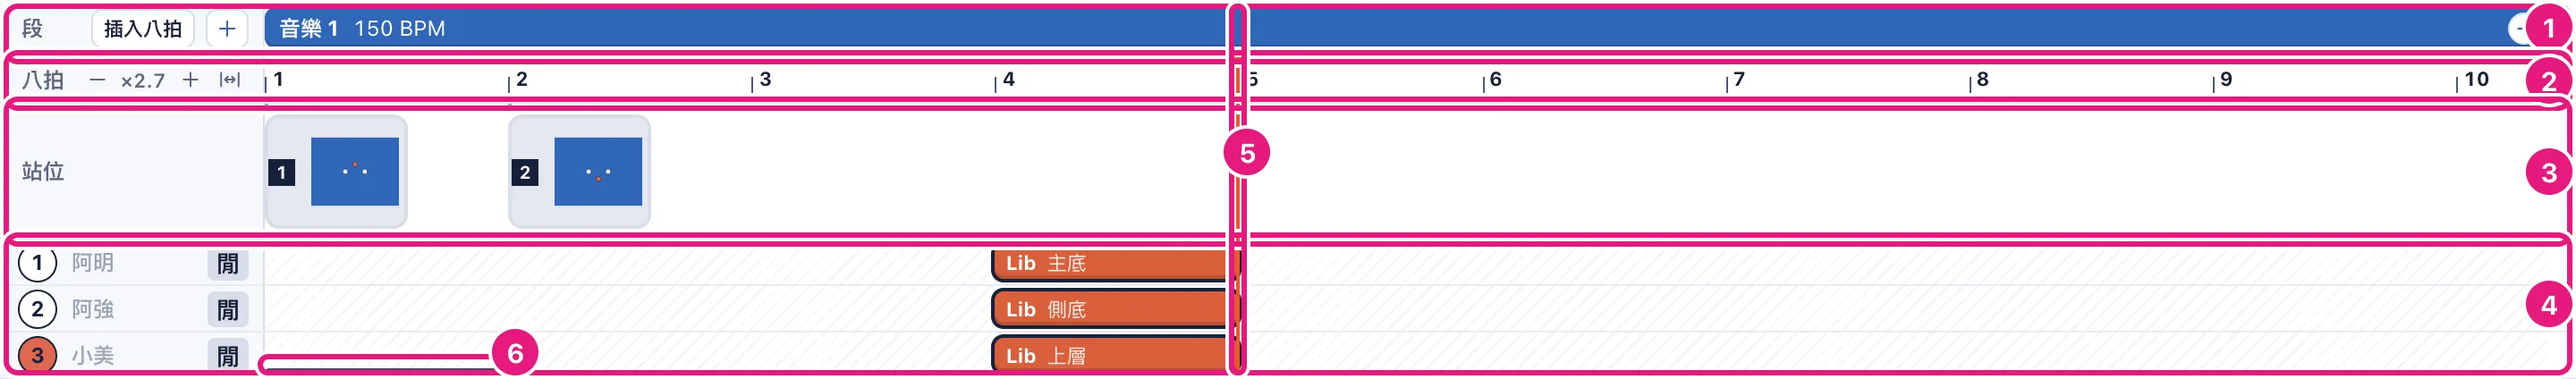
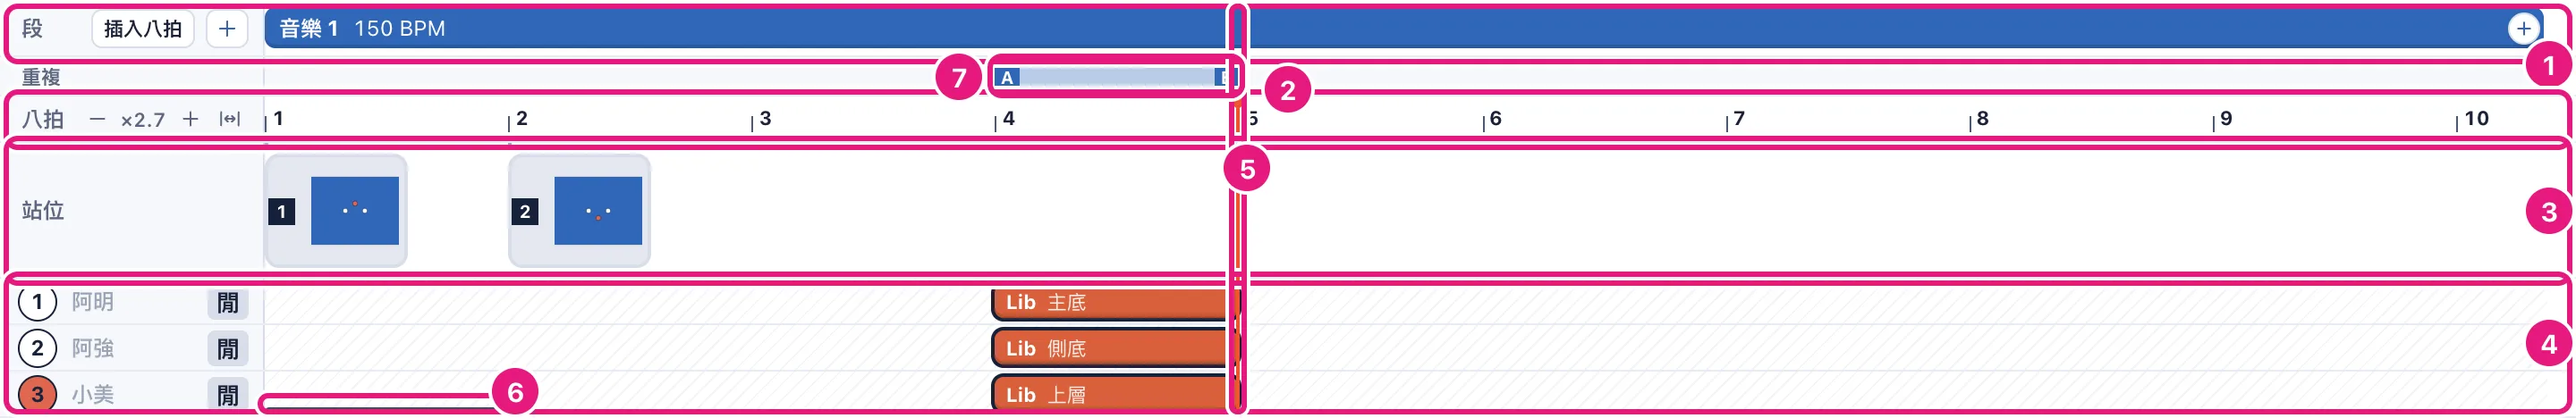
重複範圍那一條加高到 22px（手指 28px），站位列、捲動停的位置跟著往下；矮螢幕上 A、B、✕ 靠緊一點，橫拿的 iPad 上「八拍表」只留圖示，上方列才放得下；使用說明寫起播點、Shift＋空白鍵、「⋯」的開關、重複範圍三種拉法和規則，名詞表的起播點寫清楚；重拍編輯畫面、時間軸截圖（時間軸多框 ⑦ 重複範圍）

diff --git a/src/routes/guide/+page.svelte b/src/routes/guide/+page.svelte
@@ -331,7 +331,7 @@
 							<tr><td><b>首頁</b></td><td>還沒打開流程時看到的畫面：左邊是介紹，右邊是「新建流程」「開啟流程檔」和「最近的流程」（手機、直拿的 iPad 上沒有「新建流程」）。</td></tr>
 							<tr><td><b>編輯畫面</b></td><td>打開一支流程之後的畫面，分成下面四個區域。</td></tr>
 							<tr class="group"><td colspan="2">上方列</td></tr>
-							<tr><td><b>上方列</b></td><td>最上面深藍色的那一列：左邊是流程名字、「編排」「練習」切換和「使用說明」，中間是播放鍵、目前位置、節拍器、重複、播放速度、「⋯」（按了打開延遲校正的小窗），右邊是「編輯｜檢視」切換、「復原」「重做」「八拍表」「輸出影片」「流程設定」「開啟」「新建」「存檔」。<br />（練習時沒有播放鍵那一區和「編輯｜檢視」「復原」「重做」「輸出影片」「流程設定」；檢視模式時「復原」「重做」「流程設定」變灰、按不下去，位置不變；手機上沒有「編輯｜檢視」切換和「輸出影片」，播放鍵那一區在場地下面，「新建」換成「回首頁」）<br />流程名字太長時只顯示前面，後面寫「…」，滑鼠移過去看得到全名。視窗不夠寬時，「復原」「重做」「輸出影片」只剩圖示、「流程設定」只剩齒輪和「設定」兩個字，滑鼠移過去看得到名字。<br />再窄一點，播放鍵那一區換到第二行（「輸出影片」又有字）；1280 像素寬以下，「使用說明」也只剩「?」圖示。<br />畫面矮的時候（高 860 像素以下，例如 1024×768 的筆電、橫拿的 iPad），播放鍵那一區不換行，擠進上方列那一行，場地大一點：「節拍器」「重複」「輸出影片」「開啟」「新建」「流程設定」只剩圖示；再窄一點「編輯｜檢視」也是，最後「八拍表」才只剩圖示。滑鼠移過去看得到名字。<br />手機上上方列排成兩行：上面是流程名字、「編排」「練習」和「使用說明」，下面是其他按鈕。</td></tr>
+							<tr><td><b>上方列</b></td><td>最上面深藍色的那一列：左邊是流程名字、「編排」「練習」切換和「使用說明」，中間是播放鍵、目前位置、節拍器、重複和它旁邊的「A」「B」「✕」、播放速度、「⋯」（按了打開延遲校正、「停下來回到起播點」的小窗），右邊是「編輯｜檢視」切換、「復原」「重做」「八拍表」「輸出影片」「流程設定」「開啟」「新建」「存檔」。<br />（練習時沒有播放鍵那一區和「編輯｜檢視」「復原」「重做」「輸出影片」「流程設定」；檢視模式時「復原」「重做」「流程設定」變灰、按不下去，位置不變；手機上沒有「編輯｜檢視」切換和「輸出影片」，播放鍵那一區在場地下面，「新建」換成「回首頁」）<br />流程名字太長時只顯示前面，後面寫「…」，滑鼠移過去看得到全名。視窗不夠寬時，「復原」「重做」「輸出影片」只剩圖示、「流程設定」只剩齒輪和「設定」兩個字，滑鼠移過去看得到名字。<br />再窄一點，播放鍵那一區換到第二行（「輸出影片」又有字）；1280 像素寬以下，「使用說明」也只剩「?」圖示。<br />畫面矮的時候（高 860 像素以下，例如 1024×768 的筆電、橫拿的 iPad），播放鍵那一區不換行，擠進上方列那一行，場地大一點：「節拍器」「重複」「輸出影片」「開啟」「新建」「流程設定」只剩圖示；再窄一點「編輯｜檢視」也是，最後「八拍表」才只剩圖示（橫拿的 iPad 上也是，讓出位置給「重複」旁邊的「A」「B」「✕」）。滑鼠移過去看得到名字。<br />手機上上方列排成兩行：上面是流程名字、「編排」「練習」和「使用說明」，下面是其他按鈕。</td></tr>
 							<tr><td><b>編排、練習</b></td><td>上方列流程名字旁的切換。平常在「編排」；按「練習」，場地、右邊欄、時間軸換成<b>練習畫面</b>，有「記錄」「總表」兩頁（見 <a href="#practice">4.10</a>）。</td></tr>
 							<tr><td><b>編輯、檢視模式</b></td><td>上方列右邊的「編輯｜檢視」兩格，現在的那格是白的，預設是「編輯」。按「檢視」就是<b>檢視模式</b>：上方列變成紫色，場地外框一圈黃色，右上角寫「檢視模式・只能看」。<br />檢視模式是<b>看的版面</b>：場地左邊那一欄（放大縮小、站位名稱、圖例）藏起來，時間軸矮一點，場地變大；右邊欄換成只能看的一塊：上面是「我」（選自己，場上標亮自己，下面只看自己的），再來是<b>前後八拍</b>：前三個、播放頭這個、後三個八拍，一個八拍一列。播放頭這個八拍一直在中間、框起來寫完整（做到一半的動作也寫人和任務角色），拍點那一排裡播放頭在的那一拍會亮（口號段整列亮）；前後的八拍各寫一行，點一下播放頭跳到那個八拍的第 1 拍。最下面是點到的動作的人、任務角色、拍點、備註。<br />場地照樣可以按住 {others(KEYS.zoom)}（Mac 按 {KEYS.zoom.mac}）滾滾輪，或在觸控板上兩指捏合放大縮小。只能改流程的按鈕都藏起來：時間軸的「插入八拍」、加段的「＋」、站位縮圖的「✕」、動作色條拉長度的把手、分組浮動列。點時間軸上的段名，段設定照樣打開，但欄位、按鈕都是灰的，只能看；「▶ 從第一拍聽 2 個八拍」移到標題旁邊，照樣能試聽。拖人、按 Delete、{KEYS.undo.mac} 會被擋下，提示寫「檢視模式只能看、只能播放」，流程和草稿都不會變。選人、選動作、播放、看八拍表、切站位照常。<br />給隊員看之前可以先切過去確認；要改再按回「編輯」，左邊那一欄、右邊欄的分頁和表單都回到原來的位置。手機、直拿的 iPad 上一律是檢視模式，沒有「編輯｜檢視」切換（見 <a href="#viewers">4.12</a>）。</td></tr>
 							<tr><td><b>未存</b></td><td>流程名字旁邊的黃色小字：有還沒存的修改（欄位裡打到一半、還沒離開的字也算，一打字就出現；手機跳時間的框不算）。存檔後消失。它的位置一直留著，出現時旁邊的「編排」「練習」不會移動。</td></tr>
@@ -355,11 +355,12 @@
 							<tr><td><b>拍點格子</b></td><td>改一個音樂段的動作時，動作表單最下面的「拍點」那一區：一排一個八拍；每排最上面是<b>數字格</b>，一格一拍；下面是環節列（一直都在，用來標環節，見 <a href="#practice">4.10</a>）、拍子列、步驟列、手位列。用來選拍、放拍點（見 <a href="#cues">4.7</a>）。</td></tr>
 							<tr><td><b>拍點小窗</b></td><td>在拍點格子選好拍，就在選的拍下面（下面放不下就在上面）跳出來的小框，裡面有「給誰」、「－」「＋」、「複製」「貼上」和放拍子、步驟、手位的按鈕（見 <a href="#cues">4.7</a>）。</td></tr>
 							<tr class="group"><td colspan="2">時間軸</td></tr>
-							<tr><td><b>時間軸</b></td><td>畫面最下面，左右是時間，由上往下四列：段列、八拍尺、站位列、泳道。</td></tr>
+							<tr><td><b>時間軸</b></td><td>畫面最下面，左右是時間，由上往下五列：段列、重複範圍那一條、八拍尺、站位列、泳道。</td></tr>
 							<tr><td><b>段列</b></td><td>時間軸第一列，每一段是一個長方形。左邊的「＋」在最後加段；每一段右邊邊緣上的小「＋」在那一段後面插段。「段」旁的「插入八拍」在播放頭空出時間（見 <a href="#segments">4.3</a>）。</td></tr>
-							<tr><td><b>八拍尺</b></td><td>時間軸第二列，像尺一樣標著八拍的號碼（口號段每 5 秒標一次，寫「0 秒」「5 秒」）。號碼太密時跳著標。左邊的「−」「＋」放大、縮小時間軸，旁邊的「符合寬度」讓整支流程剛好放滿時間軸。</td></tr>
-							<tr><td><b>站位列</b></td><td>時間軸第三列，每張站位一個<b>小圖</b>，放在它的站位時間上；左邊那一窄條是站位的號碼（在圖外，不蓋到角落的人），有站位名稱就寫在小圖上。在空白處雙擊，就在那一拍插一張站位。</td></tr>
-							<tr><td><b>泳道</b></td><td>時間軸第四列，每個隊員有自己的一條泳道。他參加的動作畫成一條<b>色條</b>（一個動作一條，點它就選到這個動作，雙擊它播放頭跳到動作開始）：顏色看大類；動作有挑<b>辨識色</b>時塗辨識色，左邊留一小條大類的顏色；每條色條都寫動作名稱（例如「Lib」，沒取名就寫大類），後面接那個人的任務角色（色條太短寫不下時，滑鼠移過去就看得到）。<br />沒在動作裡的時間是灰色斜紋；播放頭那一拍沒在動作裡的人，名字旁邊標「閒」。<br />泳道下緣的深色細條是<b>走位條</b>，從出發畫到到達；走太快的走位條是紅色，很喘的是橘色，撞位的那一段是紫色。動作有給這個人的<b>拍點</b>時，色條下半畫出拍點（見 <a href="#cues">4.7</a>）。</td></tr>
+							<tr><td><b>重複範圍那一條</b></td><td>段列下面、左邊寫「重複」的窄條。在上面拖出<b>重複範圍</b>（藍色的帶子，兩頭是「A」「B」）；「重複」關著時帶子變淡。播放中，<b>起播點</b>在這一條上畫一個橘紅色小三角（見 <a href="#重複">重複</a>）。</td></tr>
+							<tr><td><b>八拍尺</b></td><td>時間軸第三列，像尺一樣標著八拍的號碼（口號段每 5 秒標一次，寫「0 秒」「5 秒」）。號碼太密時跳著標。左邊的「−」「＋」放大、縮小時間軸，旁邊的「符合寬度」讓整支流程剛好放滿時間軸。</td></tr>
+							<tr><td><b>站位列</b></td><td>時間軸第四列，每張站位一個<b>小圖</b>，放在它的站位時間上；左邊那一窄條是站位的號碼（在圖外，不蓋到角落的人），有站位名稱就寫在小圖上。在空白處雙擊，就在那一拍插一張站位。</td></tr>
+							<tr><td><b>泳道</b></td><td>時間軸第五列，每個隊員有自己的一條泳道。他參加的動作畫成一條<b>色條</b>（一個動作一條，點它就選到這個動作，雙擊它播放頭跳到動作開始）：顏色看大類；動作有挑<b>辨識色</b>時塗辨識色，左邊留一小條大類的顏色；每條色條都寫動作名稱（例如「Lib」，沒取名就寫大類），後面接那個人的任務角色（色條太短寫不下時，滑鼠移過去就看得到）。<br />沒在動作裡的時間是灰色斜紋；播放頭那一拍沒在動作裡的人，名字旁邊標「閒」。<br />泳道下緣的深色細條是<b>走位條</b>，從出發畫到到達；走太快的走位條是紅色，很喘的是橘色，撞位的那一段是紫色。動作有給這個人的<b>拍點</b>時，色條下半畫出拍點（見 <a href="#cues">4.7</a>）。</td></tr>
 							<tr><td><b>播放頭</b></td><td>時間軸上那根橘紅色直線，表示「現在」。場地顯示的就是播放頭這一刻大家站在哪。按住這條線也能拖。</td></tr>
 							<tr class="group"><td colspan="2">跳出來的視窗</td></tr>
 							<tr><td><b>段設定</b></td><td>點段列上的段跳出來的視窗（標題寫段名，例如「音樂 1 設定」），設定那一段的音樂檔、BPM、第一拍、長度。音樂段的段設定裡有<b>波形</b>：音樂聲音大小的圖，鼓點的地方會突起來。</td></tr>
@@ -564,9 +565,9 @@
 				</p>
 				<figure class="diagram shot">
 					<a href={timelineShot} target="_blank" rel="noopener"
-						><img src={timelineShot} style:max-width="760px" alt="時間軸：1 段列、2 八拍尺、3 站位列、4 泳道、5 播放頭（橘紅色直線）、6 小美泳道下緣的走位條。" /></a
+						><img src={timelineShot} style:max-width="760px" alt="時間軸：1 段列、2 八拍尺、3 站位列、4 泳道、5 播放頭（橘紅色直線）、6 小美泳道下緣的走位條、7 重複範圍（4-1 到 5-1）。" /></a
 					>
-					<figcaption>圖 9　時間軸。① 段列　② 八拍尺　③ 站位列　④ 泳道　⑤ 播放頭　⑥ 走位條（小美從站位 1 的位置走位到站位 2 的位置）。</figcaption>
+					<figcaption>圖 9　時間軸。① 段列　② 八拍尺　③ 站位列　④ 泳道　⑤ 播放頭　⑥ 走位條（小美從站位 1 的位置走位到站位 2 的位置）　⑦ 重複範圍（在段列和八拍尺中間那一條，這裡拉的是 4-1 到 5-1）。</figcaption>
 				</figure>
 
 				<h4 id="移動播放頭">移動播放頭</h4>
@@ -576,18 +577,26 @@
 					<li>看上方列的目前位置，確認在你要的那一拍，例如「音樂 1 3-1」。差一點就再點一次。</li>
 				</ol>
 
-				<h4 id="播放、暫停">播放、暫停</h4>
+				<h4 id="播放、暫停">播放、停下</h4>
 				<ol class="steps">
-					<li>按上方列的圓形播放鍵。從播放頭開始播；已經播到最後就從頭播。</li>
-					<li>再按一次暫停。</li>
+					<li>按上方列的圓形播放鍵。從播放頭開始播；已經播到最後就從頭播。開始播的地方叫<b>起播點</b>，播放中在重複範圍那一條上畫一個橘紅色小三角。</li>
+					<li>再按一次停下。播放頭<b>回到起播點</b>，像剪輯軟體一樣：可以一直從同一個地方重聽。自己播到流程結尾也一樣回去。</li>
+					<li>想停在聽到的地方改站位：按 <b>Shift＋空白鍵</b>停下，播放頭留在原地。播放中直接拖場上的人也會停在最近的整拍，不會跳回去。</li>
 				</ol>
+				<p class="purpose">播放中點八拍尺跳到別的地方，起播點跟著過去（停下來回到你點的地方）。不想回去的話，按上方列的「⋯」，把「停下來回到起播點」關掉：停下來就留在原地，這時 Shift＋空白鍵反過來，是回到起播點。這個開關存在這台電腦，不進流程檔。</p>
 				<p class="note">也可以按空白鍵。剛點過任何按鈕（節拍器、重複、檢視、段、場上的人、色條……）後，空白鍵照樣是播放／暫停，不會再按一次那個按鈕。只有游標在輸入框、選單裡（例如剛打完名字）時，空白鍵是打字用的；這時先點一下場地或時間軸的空白處再按。段設定開著時，空白鍵也能暫停。還沒有段時播放鍵是灰的。</p>
 
 				<h4 id="節拍器">節拍器</h4>
 				<p class="purpose">播放時每一拍響一聲，每個八拍的「1」比較重。按上方列的「節拍器」開或關；開著時是亮藍色的。</p>
 
 				<h4 id="重複">重複</h4>
-				<p class="purpose">一直重複播同一小段，練到熟。按上方列的「重複」打開（開著時是亮藍底、深色字，關著是透明的）：<b>有選動作</b>（點過時間軸上的色條）就重複那個動作，播到動作結束跳回動作開始；<b>沒選動作</b>就重複播放頭所在的八拍（口號段是播放頭所在的 5 秒）。播放頭不在那個動作裡時，從動作開始播。重複的時候點八拍尺跳到別的八拍，就改成重複那一個。再按一次「重複」關掉。</p>
+				<p class="purpose">一直重複播同一小段（<b>重複範圍</b>，從 A 到 B），練到熟。可以跨段。先拉好範圍，「重複」就會自己打開（開著時是亮藍底、深色字，關著是透明的）。拉範圍有三種方法：</p>
+				<ol class="steps">
+					<li><b>拖出來：</b>在時間軸段列下面、寫著「重複」的那一條上，從 A 拖到 B。兩頭會吸到整拍（口號段 0.1 秒），至少一拍。拉好之後拖兩頭的「A」「B」改長短。</li>
+					<li><b>按 A、B：</b>上方列「重複」旁邊的「A」把開頭放在播放頭，「B」把結尾放在播放頭。播放中也能按：聽到要開始的地方按 A，聽到要結束的地方按 B。B 要在 A 後面；A 放到 B 後面時，B 會拿掉，再按一次 B。</li>
+					<li><b>選一個動作：</b>還沒有範圍時，點時間軸上的色條選動作，再按「重複」，範圍就拉成那個動作。之後換選別的動作，範圍不會跟著換。</li>
+				</ol>
+				<p class="purpose">重複開著時只在範圍裡播：從 A 播到 B 再跳回 A，一直播。播放頭在範圍外按播放，從 A 開始。播放中點到範圍外面，會跳回 A；停著時可以點出去看那一拍的站位，按播放還是從 A 播。要播別的地方，先關掉「重複」。<br />再按一次「重複」關掉：範圍還在（變成淡淡的虛線框），再打開就繼續用。「✕」把範圍拿掉，「重複」也一起關掉。還沒有範圍、也沒選動作時，「重複」是灰的、按不下去。<br />改 BPM、插入八拍時，範圍跟著音樂走，還是同樣那幾拍；範圍所在的段被刪掉、或開別的流程，範圍就拿掉。範圍不會存進流程檔。</p>
 
 				<h4 id="慢速播放">慢速播放</h4>
 				<p class="purpose">上方列「重複」旁邊的選單，選「0.75x」或「0.5x」放慢（「1x」是正常速度）。音樂變慢但音高不變，節拍器和播放頭也一起變慢。每首音樂第一次用慢速播時要先處理一下，按下播放後可能要等一下才出聲。速度不會存進流程檔。</p>
@@ -1237,7 +1246,8 @@
 					<table>
 						<thead><tr><th>按鍵</th><th>做什麼</th></tr></thead>
 						<tbody>
-							<tr><td><kbd>空白鍵</kbd></td><td>播放／暫停。焦點在輸入框、選單裡時照一般網頁打空格；在按鈕、勾選框、分頁上照樣是播放／暫停（<kbd>Enter</kbd> 才是按下它）；對話框裡的按鈕照一般網頁按下它（見 <a href="#playback">4.4</a>）</td></tr>
+							<tr><td><kbd>Shift</kbd>＋<kbd>空白鍵</kbd></td><td>停下，播放頭留在原地（不回起播點）；「⋯」裡關掉「停下來回到起播點」時反過來，是回到起播點（見 <a href="#播放、暫停">播放、停下</a>）。沒在播時跟空白鍵一樣</td></tr>
+							<tr><td><kbd>空白鍵</kbd></td><td>播放／停下（停下來回到起播點）。焦點在輸入框、選單裡時照一般網頁打空格；在按鈕、勾選框、分頁上照樣是播放／暫停（<kbd>Enter</kbd> 才是按下它）；對話框裡的按鈕照一般網頁按下它（見 <a href="#playback">4.4</a>）</td></tr>
 							<tr><td><kbd>←</kbd> <kbd>→</kbd>（<kbd>Shift</kbd>＋<kbd>←</kbd> <kbd>→</kbd>）</td><td>播放頭往前、往後一拍（一個八拍）；口號段 1 秒（5 秒）。游標在輸入框裡時不行</td></tr>
 							<tr><td><kbd>Home</kbd>／<kbd>End</kbd></td><td>播放頭跳到流程開頭／結尾（播放中按 End 就停在結尾）</td></tr>
 							<tr><td><kbd>Alt</kbd>（Mac：<kbd>Option</kbd>）＋點八拍尺</td><td>播放頭停在半拍 &amp; 上（只點是停在整拍）</td></tr>
@@ -1295,7 +1305,7 @@
 				<h4 id="用手機看">用手機看</h4>
 				<ol class="steps">
 					<li>手機上打開，直接是<b>檢視模式</b>的畫面：上面是場地，中間是播放鍵和目前位置，下面是<b>前後八拍</b>：播放頭這個八拍的動作、站位，這一拍那格會亮；再下面一行是下一個八拍，點一下跳過去。</li>
-					<li>按播放，場上的人跟著音樂走位，前後八拍也跟著換。按「重複」、選「0.75x」「0.5x」可以一直重複、放慢（見 <a href="#playback">4.4</a>）。</li>
+					<li>按播放，場上的人跟著音樂走位，前後八拍也跟著換。按「A」「B」拉好重複範圍可以一直重複那一段，選「0.75x」「0.5x」放慢（見 <a href="#playback">4.4</a>）。</li>
 					<li>要跳到某個地方：按「⏮」回開頭，按「‹ 八拍」「八拍 ›」往前、往後一個八拍。或點目前位置，打八拍寫法（例「3-1」是第 3 個八拍的第 1 拍，別的段前面加段名，例「口號 1 12.3」），按鍵盤上的「前往」（Enter）跳過去；打錯了下面會寫怎麼打。播放頭在口號段時，只有一個音樂段的話，打八拍寫法也會跳到那個音樂段。</li>
 					<li>在「我」選自己的名字：場上你的點圈起來、只畫你的走位線，前後八拍只寫你的動作、任務角色、組和走位。這台手機會照流程的名字記住，下次打開同一支流程就直接標好；「我」不會寫進流程檔。</li>
 					<li>要看整張表，按上方列的「八拍表」，在「印誰」選自己，只列你有參加的動作。</li>

diff --git a/src/routes/+page.svelte b/src/routes/+page.svelte
@@ -2257,8 +2257,9 @@
 			padding-inline: 7px;
 		}
 	}
-	/* 1024×768：八拍表最後才只留圖示（使用說明都叫它「八拍表」）；「編排｜練習」、速度、「⋯」左右收小。 */
-	@media (max-width: 1100px) and (max-height: 860px) {
+	/* 1024×768：八拍表最後才只留圖示（使用說明都叫它「八拍表」）；「編排｜練習」、速度、「⋯」左右收小。
+	   橫拿的 iPad（1180×820，手指）也是：重複旁邊的 A、B、✕ 要 32px 才點得到，八拍表的字放不下。 */
+	@media (max-width: 1100px) and (max-height: 860px), (max-width: 1180px) and (max-height: 860px) and (pointer: coarse) {
 		.tightest-hide {
 			position: absolute;
 			width: 1px;
@@ -2282,6 +2283,18 @@
 		/* 多了「輸出影片」的圖示：間距再收 2px，流程名字才露得出 3 個字 */
 		.topbar {
 			gap: 8px;
+		}
+	}
+	/* 螢幕矮、播放區併進上方列那一行時：重複旁邊的 A、B、✕ 靠緊一點；滑鼠才收窄，手指照樣至少 32px */
+	@media (max-width: 1670px) and (max-height: 860px) {
+		.repeat-group {
+			gap: 2px;
+		}
+	}
+	@media (max-width: 1670px) and (max-height: 860px) and (pointer: fine) {
+		.ab {
+			min-width: 22px;
+			padding-inline: 4px;
 		}
 	}
 	@media (max-width: 1280px) {

diff --git a/src/lib/components/Timeline.svelte b/src/lib/components/Timeline.svelte
@@ -520,8 +520,8 @@
 <style>
 	.timeline {
 		overflow: auto;
-		/* 捲到某一條泳道（scrollIntoView、Tab 到）時，扣掉固定在上面的段列、重複範圍那一條、八拍尺、站位列（32 + 16 + 26 + 76），不停在它們底下 */
-		scroll-padding-top: 150px;
+		/* 捲到某一條泳道（scrollIntoView、Tab 到）時，扣掉固定在上面的段列、重複範圍那一條、八拍尺、站位列（32 + 22 + 26 + 76），不停在它們底下 */
+		scroll-padding-top: 156px;
 		background: var(--surface, #fff);
 		border-top: 1px solid var(--line, #d8dee9);
 		box-shadow: 0 -1px 0 rgba(22, 33, 58, 0.03);
@@ -551,16 +551,16 @@
 	}
 	.range-row {
 		top: 32px;
-		height: 16px;
+		height: 22px;
 	}
 	.ruler-row {
-		top: 48px;
+		top: 54px;
 		height: 26px;
 	}
 	/* 站位列在八拍尺下面；疊在泳道的名字欄（z 6）和走位條上面，在段列、八拍尺底下。 */
 	.film-pin {
 		position: sticky;
-		top: 74px;
+		top: 80px;
 		z-index: 7;
 		background: var(--surface, #fff);
 	}
@@ -689,11 +689,14 @@
 		}
 		.range-row {
 			top: 44px;
-			height: 24px;
+			height: 28px;
 		}
 		.ruler-row {
-			top: 68px;
+			top: 72px;
 			height: 34px;
+		}
+		.film-pin {
+			top: 106px;
 		}
 		.add,
 		.insert,

diff --git a/src/lib/components/Lanes.svelte b/src/lib/components/Lanes.svelte
@@ -552,8 +552,8 @@
 		position: sticky;
 		left: 0;
 		z-index: 6;
-		/* 捲到這一行時（點場上的人）停在時間軸黏在上面的段列（32px）、重複範圍那一條（16px）、八拍尺（26px）下面 */
-		scroll-margin-top: 74px;
+		/* 捲到這一行時（點場上的人）停在時間軸黏在上面的段列（32px）、重複範圍那一條（22px）、八拍尺（26px）下面 */
+		scroll-margin-top: 80px;
 		width: var(--lab-w, 120px);
 		flex: none;
 		justify-content: flex-start;

diff --git a/GLOSSARY.md b/GLOSSARY.md
@@ -61,7 +61,7 @@ _Avoid_: count sheet、拍表
 _Avoid_: 游標、指針、cursor
 
 **起播點**:
-按播放時開始播的那一刻；停下來時，播放頭可以回到這裡。平常就是播放頭停著時所在的地方。
+這次開始播的那一刻；播放中跳到別的地方，起播點跟著過去。停下來時，播放頭回到這裡（可以關掉）。重複開著時，起播點一定在重複範圍裡。
 _Avoid_: 起點（起點是走位的）、定位點、圖釘
 
 **重複範圍**:
